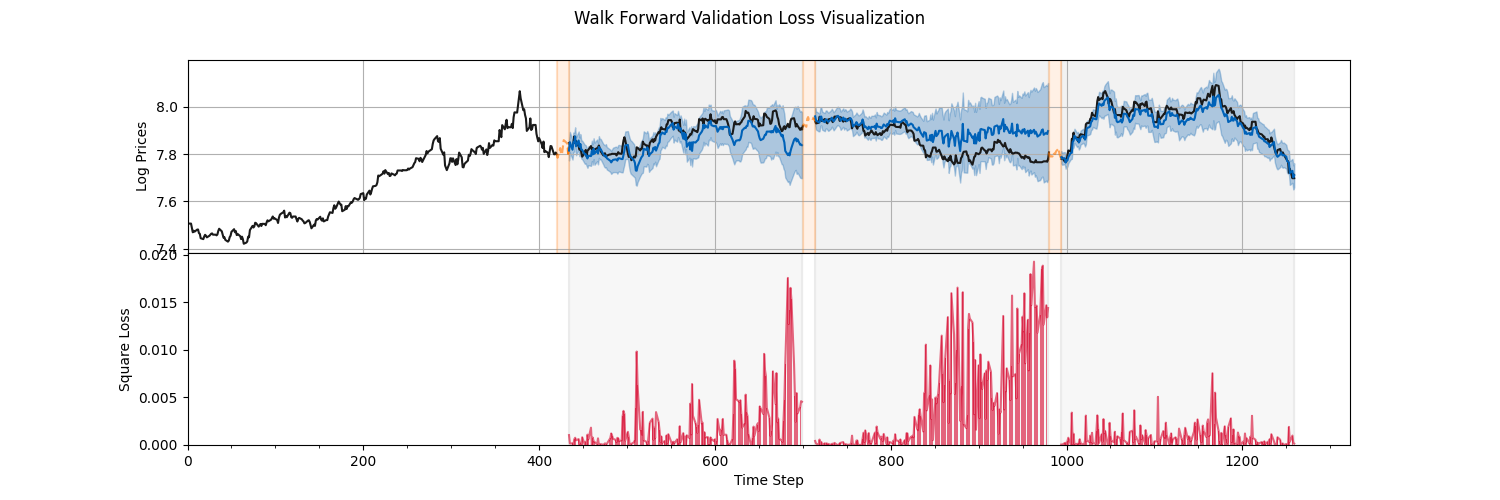
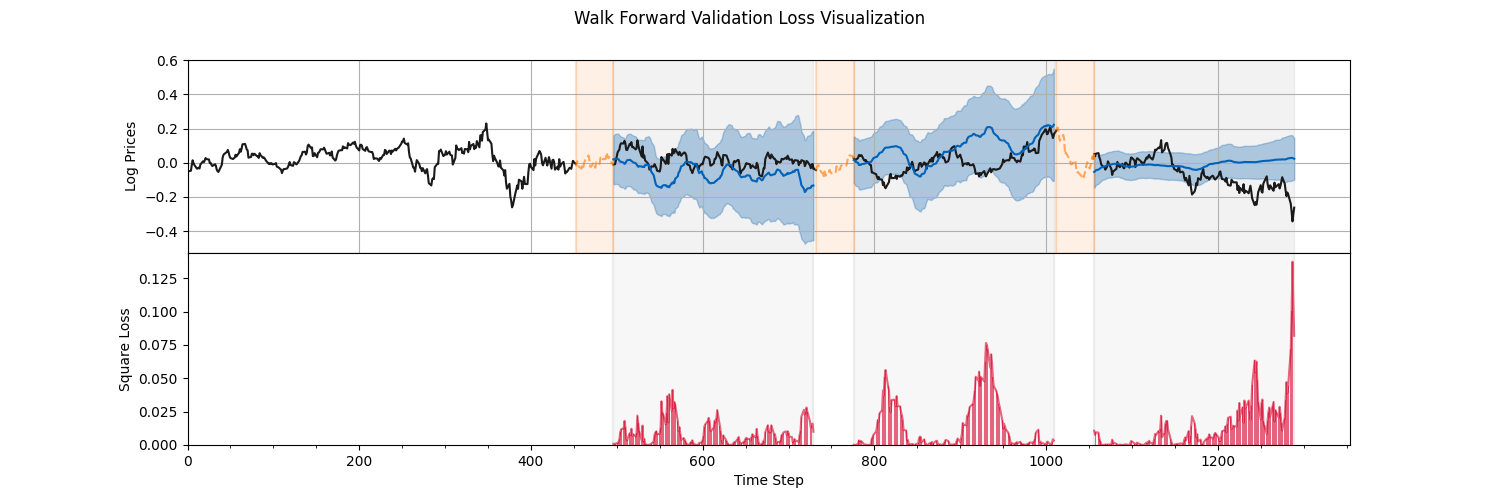
Adding Show Result

diff --git a/examples/simple_example.py b/examples/simple_example.py
@@ -5,7 +5,7 @@ import itertools
 
 from utils.data_preprocessing import load_transform_data
 from utils.data_structure import DisplayPrediction, pack_data
-from utils.data_visualization import visualize_time_series, visualize_walk_forward
+from utils.data_visualization import visualize_time_series, visualize_walk_forward, show_result_fold
 from utils.others import create_folder, save_fold_data, load_fold_data
 
 from experiments.algo_dict import algorithms_dic
@@ -91,7 +91,7 @@ def example_plot_all_algo_lag(algo_name, plot_gap=True, load_path=None, is_save=
 def example_plot_walk_forward(algo_name, base_name=None):
     hyperparam, algo_class = algorithms_dic[algo_name]
 
-    return_lag = 0
+    return_lag = 22
     len_inp = hyperparam["len_inp"]
     len_out = hyperparam["len_out"]
     features, log_prices, first_day, len_data = get_data_example(return_lag)
@@ -100,6 +100,7 @@ def example_plot_walk_forward(algo_name, base_name=None):
 
     if base_name is not None:
         fold_result = load_fold_data(base_name, algo_name)
+        show_result_fold(fold_result, algo_name)
     else:
         fold_result = walk_forward(
             features, log_prices, algo_class, hyperparam, 

diff --git a/utils/data_visualization.py b/utils/data_visualization.py
@@ -218,6 +218,21 @@ def visualize_walk_forward(full_data_x, full_data_y, fold_result,
 
     return fig, axs
 
-def show_result_fold():
-    pass
+def show_result_fold(fold_result, name):
+    """
+    Printing out the Result of the fold data
+
+    Args:
+        fold_result: Result of walk_forward 
+        name: Name of the Algorithm
+
+    """
+    all_error_ind, all_error_intv = [], []
+    for result in fold_result:
+        all_error_ind += result.pred["time_step_error"].to_list() 
+        all_error_intv += [loss for _, _, loss in result.interval_loss]
+    print("-"*16 + f" Result({name}) " + "-"*16)
+    print(f"Averate of All Test Pred: {round(np.mean(all_error_ind), 7)} ± {round(np.std(all_error_ind), 7)}")
+    print(f"Average of Test Interval: {round(np.mean(all_error_intv), 7)} ± {round(np.std(all_error_intv), 7)}")
+    print("-"*16 + "-"*len(f" Result({name}) ") + "-"*16)
     

diff --git a/experiments/eval_methods.py b/experiments/eval_methods.py
@@ -203,7 +203,7 @@ def walk_forward(X, y, algo_class, model_hyperparam, loss, size_train,
 
         interval_loss = []
         if intv_loss is None:
-            intv_loss = lambda x, y : np.average(loss(x, y))
+            intv_loss = lambda x, y : np.median(loss(x, y))
 
         for i in range(len(pred)//len_out):
             parti = pred.iloc[i*len_out:(i+1)*len_out, :]

diff --git a/main.py b/main.py
@@ -20,7 +20,7 @@ def main():
     #     "GP", load_path=("gp", "model"),
     #     is_save=False, is_load=True
     # )
-    example_plot_walk_forward("GP-2", "07-07-21-22-42-16-GP-2")
+    example_plot_walk_forward("GP-2")
 
 if __name__ == '__main__':
     main()
